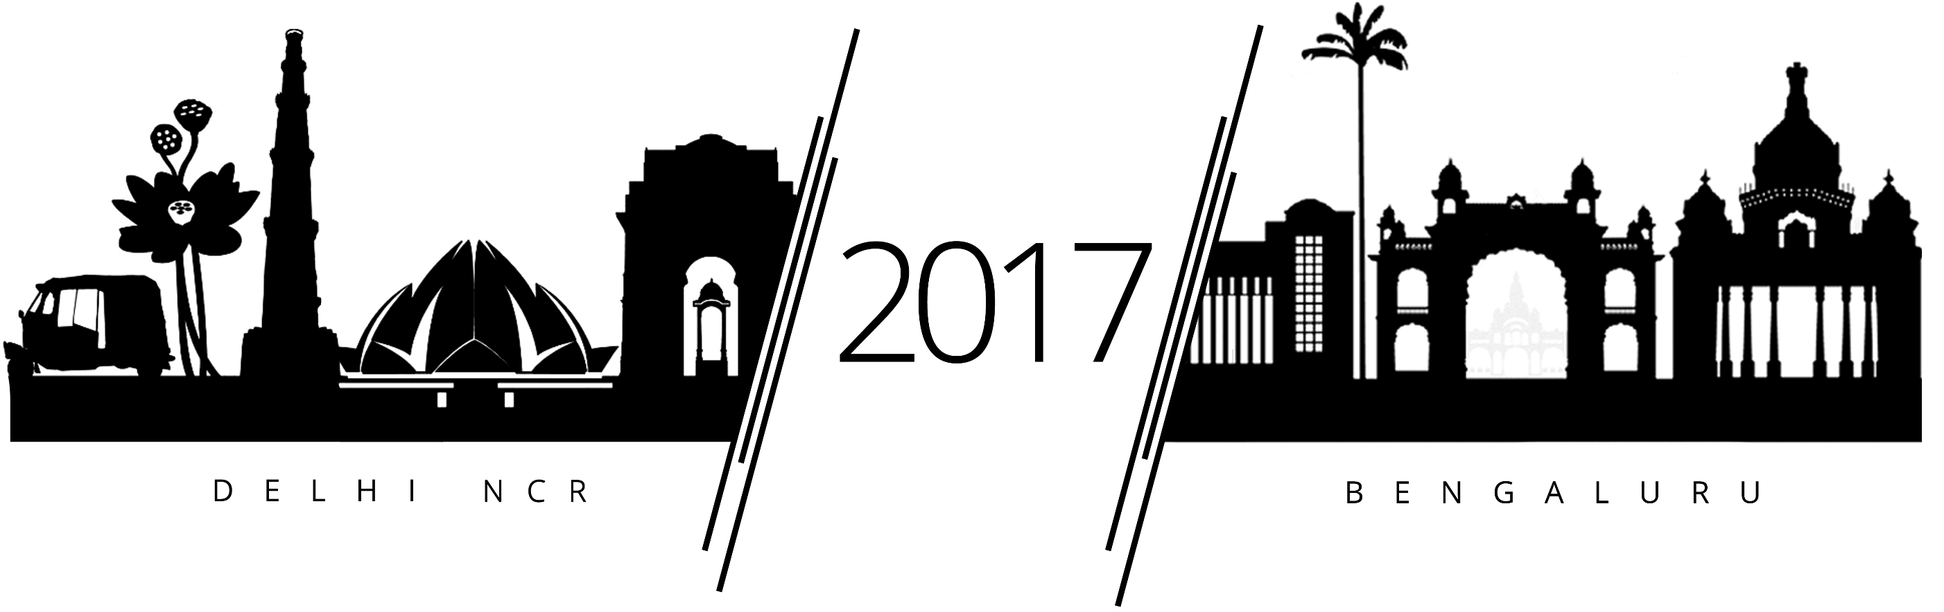
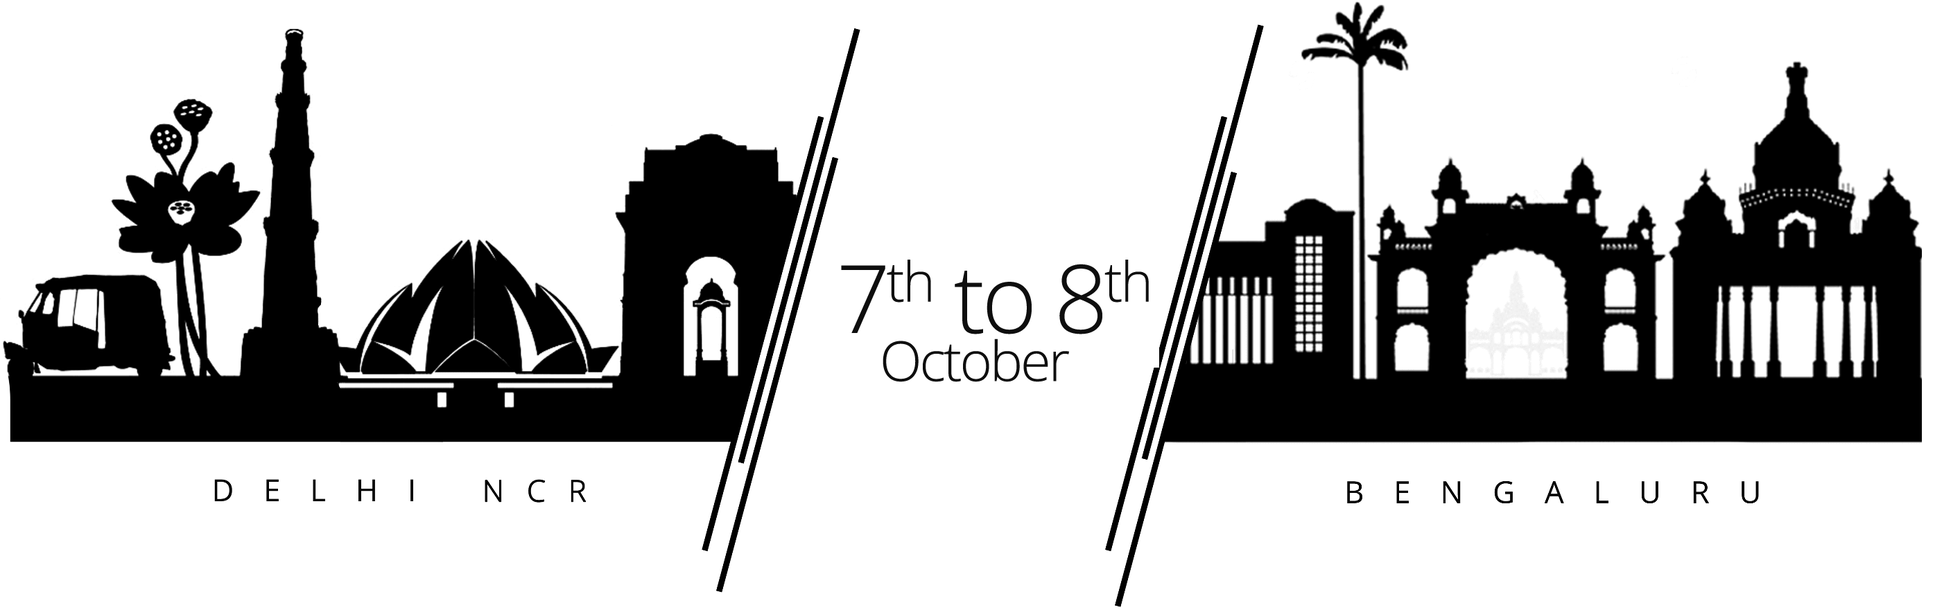
form attached

Changed region(s): [[0.4344, 0.3971, 0.5895, 0.6414]]

diff --git a/asset/css/custom.min.css b/asset/css/custom.min.css
@@ -1,1 +1,1 @@
-@import url(https://fonts.googleapis.com/css?family=Open+Sans:400,800);@import url();body{position:relative}.navbar>.container .navbar-brand,.navbar>.container-fluid .navbar-brand{margin-left:5%}.navbar-default{background:rgba(0,0,0,0)!important;opacity:1;border:none;color:#fff;height:auto}.navbar-default .navbar-nav>li>a{color:#fff;font-weight:500;text-transform:uppercase;font-size:11px;letter-spacing:1.5px}.navbar-default .navbar-nav>li>a:hover,.navbar-default .navbar-nav>li>a:focus{color:#e4e4e4}.navbar-default .navbar-nav>.active>a,.navbar-default .navbar-nav>.active>a:hover,.navbar-default .navbar-nav>.active>a:focus{color:#fff;background-color:transparent}.navbar-default .navbar-nav>.open>a,.navbar-default .navbar-nav>.open>a:hover,.navbar-default .navbar-nav>.open>a:focus{color:#fff;background-color:transparent}.navbar-default .navbar-toggle:hover,.navbar-default .navbar-toggle:focus{background-color:transparent}.navbar-default .navbar-link{color:#ddd}.navbar-default .navbar-link:hover{color:#fff}.navbar-brand{padding:0;margin-bottom:20px;margin-top:0}.navbar-brand img{padding:15px;width:191px}@media (max-width:767px){.navbar-default .navbar-nav .open .dropdown-menu>li>a{color:#ddd;margin-top:10px}.navbar-default .navbar-nav .open .dropdown-menu>li>a:hover,.navbar-default .navbar-nav .open .dropdown-menu>li>a:focus{color:#fff}.navbar-default .navbar-nav .open .dropdown-menu>.active>a,.navbar-default .navbar-nav .open .dropdown-menu>.active>a:hover,.navbar-default .navbar-nav .open .dropdown-menu>.active>a:focus{color:#fff;background-color:transparent}.navbar-brand{margin-bottom:10px;margin-top:0}.navbar button#registration-btn{margin:0 auto 15px auto!important;float:left!important}.navbar-header{background-color:#fff}#content-wrapper{max-width:90%!important;text-align:center}.landing-inside h1{font-size:3.5rem!important;padding-top:10rem!important}.cd-container{width:90%!important}.cd-timeline-content h2{font-size:1.4rem}.navbar img:nth-child(1){display:inline-block!important}.navbar-header img:nth-child(2){display:none}.affix .navbar-header img:nth-child(1){display:}.navbar-collapse{background-color:#fff}.navbar-default .navbar-nav>li>a{color:#142d4a}.navbar button#registration-btn{color:#fff;border:1px solid #2ed7f8!important;width:100%!important}.navbar-nav{width:100%!important;text-align:center;margin:0}}@media (min-width:767px){.navbar-nav>li>a{padding-top:7px;padding-bottom:0}}.navbar img:nth-child(1){display:none}.navbar-toggle{position:relative;float:right;padding:9px 10px;margin-top:21px;margin-right:31px;margin-bottom:21px;background-color:transparent;background-image:none;border:1px solid transparent;border-radius:4px}.affix{top:0;width:100%;-webkit-transition:all .5s ease-in-out;transition:all .5s ease-in-out;background-color:#fff!important;opacity:1;box-shadow:2px 0 10px rgba(0,0,0,.5)}.affix a{color:#142d4a!important;-webkit-transition:all .5s ease-in-out;transition:all .5s ease-in-out}.affix img{display:inline}.affix img:nth-child(2){display:none}.affix img:nth-child(1){display:inline-block}.affix #registration-btn{display:inline-block;color:#fff;border:1px solid rgb(46,215,248)!important}.navbar-brand img{display:none}.navbar button#registration-btn{margin:15px 5px auto;width:150px;float:right;padding:10px 0;outline:none;background-color:#2ed7f8;border:1px solid #fff;border-radius:30px;transition:all 0.3s}.navbar button#registration-btn{display:none}.affix #registration-btn{display:inline-block!important}.affix .navbar-nav{width:calc(100% - 360px);text-align:center}.navbar .affix button#registration-btn{margin:15px 5px auto;width:150px;float:right;padding:10px 0;outline:none;background-color:transparent;color:#501c4b;border:1px solid #501c4b;border-radius:6px;transition:all 0.3s}.navbar button#registration-btn:hover{border:1px solid #fff}#landing{top:0;height:84vh;background-image:url(../images/landing_background.jpg);background-position:top;background-size:cover;position:relative}#content-wrapper h1{text-align:center;padding-top:12rem;color:white;text-transform:uppercase;font-size:6rem}#content-wrapper{max-width:50%;margin-left:auto;margin-right:auto;text-align:center}.landing-inside p{text-align:center;color:white;text-shadow:3px 3px 7px #000}@media (min-width:768px){.navbar-nav>li{float:left;font-size:1.3rem;letter-spacing:.3px;padding:20px 0}}.navbar-nav{width:100%;text-align:center}.navbar-nav>li{float:none;display:inline-block}#about .col-sm-4 h3{font-size:24px;color:#57204a;text-transform:uppercase;letter-spacing:-2px;margin-bottom:20px;font-family:'Open Sans',sans-serif}li{font-family: 'Open Sans', sans-serif; font-size: 14px;line-height: 22px; text-align: justify; letter-spacing: .5px;}h3{font-size:23px;color:#142d4a;text-transform:uppercase;letter-spacing:6px;font-weight:100;text-align:center;margin-bottom:20px;font-family:'Open Sans',sans-serif}#about{padding:70px 10px;text-align:center}#about p{font-size:13px;letter-spacing:.5px;line-height:26px}#circle1{position:static;width:400px;margin-top:27px;margin-bottom:-126px;margin-left:auto;margin-right:114px;display:block}#img-para{margin-top:50px}#img-para img{width:400px;display:inline-block;vertical-align:top}#img-para p{width:calc(100% - 420px);display:inline-block}#tagline{text-align:center;background-image:url(../images/problem-bg.jpg);background-size:cover;background-attachment:fixed;background-position:center;padding:80px 0;text-shadow:2px 2px 3px #000}#tagline img{width:65%}p{font-size:14px;letter-spacing:.5px;line-height:26px;font-family:'Open Sans',sans-serif;font-weight:400}#rules{text-align:center;background-color:#efefef;padding:70px 0}#rules img{width:70%}#subscription{background-color:#1b1b1b;padding:25px 0;color:#191919;text-align:center;border-bottom:1px solid #353535}.contact_info{border-top:1px solid #353535;text-align:center;margin-bottom:15px}.contact_info .icon{width:90px;height:90px;border:2px solid #2ed7f8;color:white;font-size:2em;padding-top:20px;border-radius:50%;position:relative;vertical-align:center;text-align:center;margin:auto;margin-bottom:15px}.contact_info .info{color:#fff;text-transform:initial;letter-spacing:1px}#content-wrapper img:nth-child(1){width:400px;display:block;height:auto;position:static;top:auto;margin-left:auto;margin-right:auto;margin-bottom:50px;padding-top:23vh}#content-wrapper img:nth-child(2){width:80%;display:block;height:auto;position:static;top:auto;margin-left:auto;margin-right:auto}footer{background-color:#191919;min-height:350px;font-family:'Open Sans',sans-serif}.footer-col{margin-top:70px;margin-bottom:70px}.logofooter{margin-bottom:10px;font-size:25px;color:#fff;font-weight:700}.footer-col p{color:#bfbfbf;font-size:12px;font-family:'Open Sans',sans-serif;margin-bottom:15px;line-height:17px}.footer-col p i{width:20px;color:#999}.footer-ul{list-style-type:none;padding-left:0;margin-left:2px;text-align:left}.footer-ul li{line-height:29px;font-size:12px;text-align:left;padding:0 16px;display:inline-block;margin:3px 0;background-color:#4c4c4c;border-radius:20px;color:#000}.footer-ul li a{color:#fff}.footer-ul i{margin-right:10px}.copyright{min-height:40px;background-color:#353535}.copyright p{text-align:left;color:#FFF;padding:10px 0;margin-bottom:0;text-transform:uppercase;letter-spacing:2px;font-size:10px}.heading7{font-size:21px;font-weight:700;color:#d9d6d6;text-align:left;margin-bottom:22px}.post p{font-size:12px;color:#bfbfbf;line-height:20px}.post p span{display:block;color:#7b7b7b}.bottom_ul{list-style-type:none;float:right;margin-bottom:0}.bottom_ul li{float:left;line-height:40px}.bottom_ul li:after{content:"/";color:#FFF;margin-right:8px;margin-left:8px}.bottom_ul li a{color:#FFF;font-size:12px}.social-icon{width:30px;height:30px;font-size:15px;background-color:#007bb6;color:#fff;text-align:center;margin-right:10px;padding-top:7px;border-radius:50%}.footer-social{list-style:none;padding:0}.footer-social li{float:left}.linked-in{background-color:#007bb6}.facebook{background-color:#3b5998}.twitter{background-color:#1da1f2}.google{background-color:#f63e28}.rules-p{margin-bottom:30px}#rules-right{padding:0 20px;text-align:left}.logofooter img{max-width:380px}@media(max-width:769px){#img-para img{display:none}#img-para p{width:100%}#rules{text-align:center;padding:70px 0}#rules img{margin-bottom:20px}.footer-col{margin-top:20px;margin-bottom:10px}footer .container .row{padding:40px 0}.copyright p{text-align:center}#content-wrapper img{width:100%!important;display:block;height:auto;position:static;top:auto;margin-left:auto;margin-right:auto;margin-bottom:36px;padding-top:0}#tagline{padding:30px 0}#tagline img{width:100%}#time{padding:30px 0!important}}.no-js #loader{display:none}.js #loader{display:block;position:absolute;left:100px;top:0}.se-pre-con{position:fixed;left:0;top:0;width:100%;height:100%;z-index:9999;background:url(../images/143.gif) center no-repeat #fff}.cd-container{width:60%;max-width:1170px;margin:0 auto;color:#7f8c97}.cd-container::after{content:'';display:table;clear:both}.cd-header{height:100px;line-height:100px;text-align:center;background:#303e49;padding-top:20px}.cd-header h1{color:white;font-size:28px;text-align:center;font-size:1.75rem}@media only screen and (min-width:1170px){.cd-header{height:100px;text-align:center;line-height:100px}.cd-header h1{font-size:32px;text-align:center;font-size:1.75rem}}#cd-timeline{position:relative;padding:1.2em 0;margin-top:2em;margin-bottom:2em}#cd-timeline::before{content:'';position:absolute;top:0;left:18px;height:100%;width:4px;background:#d7e4ed}@media only screen and (min-width:1170px){#cd-timeline{margin-top:3em;margin-bottom:3em}#cd-timeline::before{left:50%;margin-left:-2px}}.cd-timeline-block{position:relative;margin:1.2em 0}.cd-timeline-block:after{content:"";display:table;clear:both}.cd-timeline-block:first-child{margin-top:0}.cd-timeline-block:last-child{margin-bottom:0}@media only screen and (min-width:1170px){.cd-timeline-block{margin:4em 0}.cd-timeline-block:first-child{margin-top:0}.cd-timeline-block:last-child{margin-bottom:0}}.cd-timeline-img{position:absolute;top:0;left:0;width:50px;height:50px;border-radius:50%;box-shadow:0 0 0 4px white,inset 0 2px 0 rgba(0,0,0,.08),0 3px 0 4px rgba(0,0,0,.05)}.cd-timeline-img img{display:block;width:30px;height:30px;position:relative;left:50%;top:50%;margin-left:-16px;margin-top:-16px}.cd-timeline-img.cd-picture{background:#75ce66}.cd-timeline-img.cd-movie{background:#c03b44}.cd-timeline-img.cd-location{background:#f0ca45}@media only screen and (min-width:1170px){.cd-timeline-img{width:60px;height:60px;left:50%;margin-left:-30px;-webkit-transform:translateZ(0);-webkit-backface-visibility:hidden}.cssanimations .cd-timeline-img.is-hidden{visibility:hidden}.cssanimations .cd-timeline-img.bounce-in{visibility:visible;-webkit-animation:cd-bounce-1 0.6s;-moz-animation:cd-bounce-1 0.6s;animation:cd-bounce-1 0.6s}}@-webkit-keyframes cd-bounce-1{0%{opacity:0;-webkit-transform:scale(.5)}60%{opacity:1;-webkit-transform:scale(1.2)}100%{-webkit-transform:scale(1)}}@-moz-keyframes cd-bounce-1{0%{opacity:0;-moz-transform:scale(.5)}60%{opacity:1;-moz-transform:scale(1.2)}100%{-moz-transform:scale(1)}}@keyframes cd-bounce-1{0%{opacity:0;-webkit-transform:scale(.5);-moz-transform:scale(.5);-ms-transform:scale(.5);-o-transform:scale(.5);transform:scale(.5)}60%{opacity:1;-webkit-transform:scale(1.2);-moz-transform:scale(1.2);-ms-transform:scale(1.2);-o-transform:scale(1.2);transform:scale(1.2)}100%{-webkit-transform:scale(1);-moz-transform:scale(1);-ms-transform:scale(1);-o-transform:scale(1);transform:scale(1)}}.cd-timeline-content{position:relative;margin-left:80px;background:white;border-radius:.25em;padding:1px .5em;box-shadow:0 3px 0 #d7e4ed}.cd-timeline-content:after{content:"";display:table;clear:both}.cd-timeline-content h2{color:#303e49}.cd-timeline-content p,.cd-timeline-content .cd-read-more,.cd-timeline-content .cd-date{font-size:22px;font-size:1.2rem;font-weight:800}.cd-timeline-content .cd-read-more,.cd-timeline-content .cd-date{display:inline-block}.cd-timeline-content p{margin:.5em 0;line-height:1.6}.cd-timeline-content .cd-read-more{float:right;padding:.8em 1em;background:#acb7c0;color:white;border-radius:.25em}.no-touch .cd-timeline-content .cd-read-more:hover{background-color:#bac4cb}.cd-timeline-content .cd-date{float:left;padding:.8em 0;opacity:.85}.cd-timeline-content::before{content:'';position:absolute;top:16px;right:100%;height:0;width:0;border:7px solid transparent;border-right:7px solid white}@media only screen and (min-width:768px){.cd-timeline-content h2{font-size:28px;font-size:1.75rem}.cd-timeline-content p{font-size:22px;font-size:1.4rem}.cd-timeline-content .cd-read-more,.cd-timeline-content .cd-date{font-size:22px;font-size:1.1rem}}@media only screen and (min-width:1170px){.cd-timeline-content{margin-left:0;padding:1.6em;width:45%}.cd-timeline-content::before{top:24px;left:100%;border-color:transparent;border-left-color:white}.cd-timeline-content .cd-read-more{float:left}.cd-timeline-content .cd-date{position:absolute;width:100%;left:122%;top:6px;font-size:22px;font-size:1.3rem}.cd-timeline-block:nth-child(even) .cd-timeline-content{float:right}.cd-timeline-block:nth-child(even) .cd-timeline-content::before{top:24px;left:auto;right:100%;border-color:transparent;border-right-color:white}.cd-timeline-block:nth-child(even) .cd-timeline-content .cd-read-more{float:right}.cd-timeline-block:nth-child(even) .cd-timeline-content .cd-date{left:auto;right:122%;text-align:right}.cssanimations .cd-timeline-content.is-hidden{visibility:hidden}.cssanimations .cd-timeline-content.bounce-in{visibility:visible;-webkit-animation:cd-bounce-2 0.6s;-moz-animation:cd-bounce-2 0.6s;animation:cd-bounce-2 0.6s}}@media only screen and (min-width:1170px){.cssanimations .cd-timeline-block:nth-child(even) .cd-timeline-content.bounce-in{-webkit-animation:cd-bounce-2-inverse 0.6s;-moz-animation:cd-bounce-2-inverse 0.6s;animation:cd-bounce-2-inverse 0.6s}}@-webkit-keyframes cd-bounce-2{0%{opacity:0;-webkit-transform:translateX(-100px)}60%{opacity:1;-webkit-transform:translateX(20px)}100%{-webkit-transform:translateX(0)}}@-moz-keyframes cd-bounce-2{0%{opacity:0;-moz-transform:translateX(-100px)}60%{opacity:1;-moz-transform:translateX(20px)}100%{-moz-transform:translateX(0)}}@keyframes cd-bounce-2{0%{opacity:0;-webkit-transform:translateX(-100px);-moz-transform:translateX(-100px);-ms-transform:translateX(-100px);-o-transform:translateX(-100px);transform:translateX(-100px)}60%{opacity:1;-webkit-transform:translateX(20px);-moz-transform:translateX(20px);-ms-transform:translateX(20px);-o-transform:translateX(20px);transform:translateX(20px)}100%{-webkit-transform:translateX(0);-moz-transform:translateX(0);-ms-transform:translateX(0);-o-transform:translateX(0);transform:translateX(0)}}@-webkit-keyframes cd-bounce-2-inverse{0%{opacity:0;-webkit-transform:translateX(100px)}60%{opacity:1;-webkit-transform:translateX(-20px)}100%{-webkit-transform:translateX(0)}}@-moz-keyframes cd-bounce-2-inverse{0%{opacity:0;-moz-transform:translateX(100px)}60%{opacity:1;-moz-transform:translateX(-20px)}100%{-moz-transform:translateX(0)}}@keyframes cd-bounce-2-inverse{0%{opacity:0;-webkit-transform:translateX(100px);-moz-transform:translateX(100px);-ms-transform:translateX(100px);-o-transform:translateX(100px);transform:translateX(100px)}60%{opacity:1;-webkit-transform:translateX(-20px);-moz-transform:translateX(-20px);-ms-transform:translateX(-20px);-o-transform:translateX(-20px);transform:translateX(-20px)}100%{-webkit-transform:translateX(0);-moz-transform:translateX(0);-ms-transform:translateX(0);-o-transform:translateX(0);transform:translateX(0)}}#schedule{background-color:#e9f0f5}.landing-inside button{background-color:#fff;color:#183554;border:1px solid rgba(87,32,74,0);font-weight:300;margin-top:20px;transition:0.2s all;width:150px;outline:0;font-size:14px;font-weight:400;border-radius:40px}.landing-inside button:hover,.landing-inside button:focus,.landing-inside button:active{background-color:#fff;color:#2ed7f8;outline:0}.modal-header{background-color:#2ed7f8;color:#fff;text-align:center;font-weight:100}.modal-title{font-weight:400;margin:0;line-height:1.42857143;text-transform:uppercase;letter-spacing:5px;font-size:12px}#modal-style h3{padding:10px 30px;font-size:16px;letter-spacing:.2px;font-weight:100;text-transform:initial}#modal-style p{padding:0 30px;font-size:12px;font-weight:400;text-transform:inherit}.modal-body button{padding:10px 30px;background-color:#fff;color:#191e27;letter-spacing:7px;border:1px solid #2ed7f8;text-transform:uppercase;outline:0;font-size:11px;border-radius:30px}#date-fort{width:60%;margin-top:20px;margin-bottom:30px}@media(max-width:1024px){#date-fort{width:80%}}@media(max-width:520px){#date-fort{width:100%}}.time{color:#000;border-radius:5px;padding:20px;margin:6px 5px}.hack-11 p{text-transform:uppercase;letter-spacing:3px;font-weight:lighter;font-size:30px;margin:0;display:inline-block}.t-bold{font-weight:300;font-size:12px;text-transform:uppercase;letter-spacing:1px;float:right;display:inline-block;vertical-align:-webkit-baseline-middle}.t-bold h4{font-weight:700;font-size:13px;letter-spacing:1px;padding:0;margin-left:10px!important;display:inline-block;margin:0;vertical-align:-webkit-baseline-middle}.head-line{width:40px;height:2px;background-color:#2ed7f8}.about-bold{font-weight:100;color:#fff;background-color:rgb(46,215,248);padding:2px 20px;border-radius:30px;margin:0 10px}#time{padding:70px 0}.hack-12{width:23.6%!important;display:inline-table;background-color:#efefef}.hack-11{width:60%;margin:6px auto;text-align:center;background-color:#2ed7f8;color:#fff;margin-top:50px}.prob{width:23.6%!important;display:inline-table;padding:30px 0}.prob img{width:35%}.prob p{padding:10px 0;text-transform:uppercase;padding-bottom:0;margin-bottom:0}.prob h5{color:#adadad;font-size:12px;line-height:14px;font-weight:400;border-top:2px solid #2ed7f8;letter-spacing:.3px;margin:auto 34px;padding-top:5px}@media(max-width:990px){.hack-12{width:23.2%!important}}@media(max-width:768px){#landing{height:110vh}#rules-right{padding:0;text-align:justify}.hack-11{width:100%!important}.hack-12{width:100%!important;margin:6px 0}.time{height:auto}.prob{width:48%!important;display:inline-table;padding:20px 0}}.hack-12 img{float:right;width:40px;display:inline-block}.hack-12 p{width:calc(100% - 42px);display:inline-block;line-height:18px}.hack-12 p span{display:block;font-size:10px;color:#828282;line-height:13px}.time-hack{padding:1px 10px;color:#424242;text-align:center;border-radius:20px;font-size:12px;margin-top:3px;border:1px solid #000;width:auto}#challenge{padding:70px 0;text-align:center}@media(max-width:305px){.prob{width:90%!important}}#filler{background-color:#404040}#filler img{width:40%;padding-bottom:50px}#pre-filler img{width:40%;margin-bottom:-1px}header{position:relative;height:180px;line-height:180px;padding:90px;text-align:center;background-color:rgb(46,215,248)}header h1{color:#fff;-webkit-font-smoothing:antialiased;-moz-osx-font-smoothing:grayscale;font-size:20px;font-size:2.25rem;font-weight:600}@media only screen and (min-width:1024px){header{height:240px;line-height:240px;padding:120px}header h1{font-size:36px;font-size:3.25rem}}.faqHeader{font-size:20px;margin:20px;margin-left:0}.panel-group p{font-size:14px;line-height:22px;text-align:justify}.panel-heading [data-toggle="collapse"]:after{font-family:Arial;content:">";float:right;color:#F58723;font-size:18px;line-height:22px;-webkit-transform:rotate(-90deg);-moz-transform:rotate(-90deg);-ms-transform:rotate(-90deg);-o-transform:rotate(-90deg);transform:rotate(-90deg)}.panel-heading [data-toggle="collapse"].collapsed:after{-webkit-transform:rotate(90deg);-moz-transform:rotate(90deg);-ms-transform:rotate(90deg);-o-transform:rotate(90deg);transform:rotate(90deg);color:#454444}
+@import url(https://fonts.googleapis.com/css?family=Open+Sans:400,800);@import url();body{position:relative}.navbar>.container .navbar-brand,.navbar>.container-fluid .navbar-brand{margin-left:5%}.navbar-default{background:rgba(0,0,0,0)!important;opacity:1;border:none;color:#fff;height:auto}.navbar-default .navbar-nav>li>a{color:#fff;font-weight:500;text-transform:uppercase;font-size:11px;letter-spacing:1.5px}.navbar-default .navbar-nav>li>a:hover,.navbar-default .navbar-nav>li>a:focus{color:#e4e4e4}.navbar-default .navbar-nav>.active>a,.navbar-default .navbar-nav>.active>a:hover,.navbar-default .navbar-nav>.active>a:focus{color:#fff;background-color:transparent}.navbar-default .navbar-nav>.open>a,.navbar-default .navbar-nav>.open>a:hover,.navbar-default .navbar-nav>.open>a:focus{color:#fff;background-color:transparent}.navbar-default .navbar-toggle:hover,.navbar-default .navbar-toggle:focus{background-color:transparent}.navbar-default .navbar-link{color:#ddd}.navbar-default .navbar-link:hover{color:#fff}.navbar-brand{padding:0;margin-bottom:20px;margin-top:0}.navbar-brand img{padding:15px;width:191px}@media (max-width:767px){.navbar-default .navbar-nav .open .dropdown-menu>li>a{color:#ddd;margin-top:10px}.navbar-default .navbar-nav .open .dropdown-menu>li>a:hover,.navbar-default .navbar-nav .open .dropdown-menu>li>a:focus{color:#fff}.navbar-default .navbar-nav .open .dropdown-menu>.active>a,.navbar-default .navbar-nav .open .dropdown-menu>.active>a:hover,.navbar-default .navbar-nav .open .dropdown-menu>.active>a:focus{color:#fff;background-color:transparent}.navbar-brand{margin-bottom:10px;margin-top:0}.navbar button#registration-btn{margin:0 auto 15px auto!important;float:left!important}.navbar-header{background-color:#fff}#content-wrapper{max-width:90%!important;text-align:center}.landing-inside h1{font-size:3.5rem!important;padding-top:10rem!important}.cd-container{width:90%!important}.cd-timeline-content h2{font-size:1.4rem}.navbar img:nth-child(1){display:inline-block!important}.navbar-header img:nth-child(2){display:none}.affix .navbar-header img:nth-child(1){display:}.navbar-collapse{background-color:#fff}.navbar-default .navbar-nav>li>a{color:#142d4a}.navbar button#registration-btn{color:#fff;border:1px solid #2ed7f8!important;width:100%!important}.navbar-nav{width:100%!important;text-align:center;margin:0}}@media (min-width:767px){.navbar-nav>li>a{padding-top:7px;padding-bottom:0}}.navbar img:nth-child(1){display:none}.navbar-toggle{position:relative;float:right;padding:9px 10px;margin-top:21px;margin-right:31px;margin-bottom:21px;background-color:transparent;background-image:none;border:1px solid transparent;border-radius:4px}.affix{top:0;width:100%;-webkit-transition:all .5s ease-in-out;transition:all .5s ease-in-out;background-color:#fff!important;opacity:1;box-shadow:2px 0 10px rgba(0,0,0,.5)}.affix a{color:#142d4a!important;-webkit-transition:all .5s ease-in-out;transition:all .5s ease-in-out}.affix img{display:inline}.affix img:nth-child(2){display:none}.affix img:nth-child(1){display:inline-block}.affix #registration-btn{display:inline-block;color:#fff;border:1px solid rgb(46,215,248)!important}.navbar-brand img{display:none}.navbar button#registration-btn{margin:15px 5px auto;width:150px;float:right;padding:10px 0;outline:none;background-color:#2ed7f8;border:1px solid #fff;border-radius:30px;transition:all 0.3s}.navbar button#registration-btn{display:none}.affix #registration-btn{display:inline-block!important}.affix .navbar-nav{width:calc(100% - 360px);text-align:center}.navbar .affix button#registration-btn{margin:15px 5px auto;width:150px;float:right;padding:10px 0;outline:none;background-color:transparent;color:#501c4b;border:1px solid #501c4b;border-radius:6px;transition:all 0.3s}.navbar button#registration-btn:hover{border:1px solid #fff}#landing{top:0;height:84vh;background-image:url(../images/landing_background.jpg);background-position:top;background-size:cover;position:relative}#content-wrapper h1{text-align:center;padding-top:12rem;color:white;text-transform:uppercase;font-size:6rem}#content-wrapper{max-width:50%;margin-left:auto;margin-right:auto;text-align:center}.landing-inside p{text-align:center;color:white;text-shadow:3px 3px 7px #000}@media (min-width:768px){.navbar-nav>li{float:left;font-size:1.3rem;letter-spacing:.3px;padding:20px 0}}.navbar-nav{width:100%;text-align:center}.navbar-nav>li{float:none;display:inline-block}#about .col-sm-4 h3{font-size:24px;color:#57204a;text-transform:uppercase;letter-spacing:-2px;margin-bottom:20px;font-family:'Open Sans',sans-serif}li{font-family: 'Open Sans', sans-serif; font-size: 14px;line-height: 22px; text-align: justify; letter-spacing: .5px;}h3{font-size:23px;color:#142d4a;text-transform:uppercase;letter-spacing:6px;font-weight:100;text-align:center;margin-bottom:20px;font-family:'Open Sans',sans-serif}#about{padding:70px 10px;text-align:center}#about p{font-size:13px;letter-spacing:.5px;line-height:26px}#circle1{position:static;width:400px;margin-top:27px;margin-bottom:-126px;margin-left:auto;margin-right:114px;display:block}#img-para{margin-top:50px}#img-para img{width:400px;display:inline-block;vertical-align:top}#img-para p{width:calc(100% - 420px);display:inline-block}#tagline{text-align:center;background-image:url(../images/problem-bg.jpg);background-size:cover;background-attachment:fixed;background-position:center;padding:80px 0;text-shadow:2px 2px 3px #000}#tagline img{width:65%}p{font-size:14px;letter-spacing:.5px;line-height:26px;font-family:'Open Sans',sans-serif;font-weight:400}#rules{text-align:center;background-color:#efefef;padding:70px 0}#rules img{width:70%}#subscription{background-color:#1b1b1b;padding:25px 0;color:#191919;text-align:center;border-bottom:1px solid #353535}.contact_info{border-top:1px solid #353535;text-align:center;margin-bottom:15px}.contact_info .icon{width:90px;height:90px;border:2px solid #2ed7f8;color:white;font-size:2em;padding-top:20px;border-radius:50%;position:relative;vertical-align:center;text-align:center;margin:auto;margin-bottom:15px}.contact_info .info{color:#fff;text-transform:initial;letter-spacing:1px}#content-wrapper img:nth-child(1){width:400px;display:block;height:auto;position:static;top:auto;margin-left:auto;margin-right:auto;margin-bottom: 25px;padding-top:23vh;}#content-wrapper img:nth-child(2){width:80%;display:block;height:auto;position:static;top:auto;margin-left:auto;margin-right:auto}footer{background-color:#191919;min-height:350px;font-family:'Open Sans',sans-serif}.footer-col{margin-top:70px;margin-bottom:70px}.logofooter{margin-bottom:10px;font-size:25px;color:#fff;font-weight:700}.footer-col p{color:#bfbfbf;font-size:12px;font-family:'Open Sans',sans-serif;margin-bottom:15px;line-height:17px}.footer-col p i{width:20px;color:#999}.footer-ul{list-style-type:none;padding-left:0;margin-left:2px;text-align:left}.footer-ul li{line-height:29px;font-size:12px;text-align:left;padding:0 16px;display:inline-block;margin:3px 0;background-color:#4c4c4c;border-radius:20px;color:#000}.footer-ul li a{color:#fff}.footer-ul i{margin-right:10px}.copyright{min-height:40px;background-color:#353535}.copyright p{text-align:left;color:#FFF;padding:10px 0;margin-bottom:0;text-transform:uppercase;letter-spacing:2px;font-size:10px}.heading7{font-size:21px;font-weight:700;color:#d9d6d6;text-align:left;margin-bottom:22px}.post p{font-size:12px;color:#bfbfbf;line-height:20px}.post p span{display:block;color:#7b7b7b}.bottom_ul{list-style-type:none;float:right;margin-bottom:0}.bottom_ul li{float:left;line-height:40px}.bottom_ul li:after{content:"/";color:#FFF;margin-right:8px;margin-left:8px}.bottom_ul li a{color:#FFF;font-size:12px}.social-icon{width:30px;height:30px;font-size:15px;background-color:#007bb6;color:#fff;text-align:center;margin-right:10px;padding-top:7px;border-radius:50%}.footer-social{list-style:none;padding:0}.footer-social li{float:left}.linked-in{background-color:#007bb6}.facebook{background-color:#3b5998}.twitter{background-color:#1da1f2}.google{background-color:#f63e28}.rules-p{margin-bottom:30px}#rules-right{padding:0 20px;text-align:left}.logofooter img{max-width:380px}@media(max-width:769px){#img-para img{display:none}#img-para p{width:100%}#rules{text-align:center;padding:70px 0}#rules img{margin-bottom:20px}.footer-col{margin-top:20px;margin-bottom:10px}footer .container .row{padding:40px 0}.copyright p{text-align:center}#content-wrapper img{width:100%!important;display:block;height:auto;position:static;top:auto;margin-left:auto;margin-right:auto;margin-bottom:36px;padding-top:0}#tagline{padding:30px 0}#tagline img{width:100%}#time{padding:30px 0!important}}.no-js #loader{display:none}.js #loader{display:block;position:absolute;left:100px;top:0}.se-pre-con{position:fixed;left:0;top:0;width:100%;height:100%;z-index:9999;background:url(../images/143.gif) center no-repeat #fff}.cd-container{width:60%;max-width:1170px;margin:0 auto;color:#7f8c97}.cd-container::after{content:'';display:table;clear:both}.cd-header{height:100px;line-height:100px;text-align:center;background:#303e49;padding-top:20px}.cd-header h1{color:white;font-size:28px;text-align:center;font-size:1.75rem}@media only screen and (min-width:1170px){.cd-header{height:100px;text-align:center;line-height:100px}.cd-header h1{font-size:32px;text-align:center;font-size:1.75rem}}#cd-timeline{position:relative;padding:1.2em 0;margin-top:2em;margin-bottom:2em}#cd-timeline::before{content:'';position:absolute;top:0;left:18px;height:100%;width:4px;background:#d7e4ed}@media only screen and (min-width:1170px){#cd-timeline{margin-top:3em;margin-bottom:3em}#cd-timeline::before{left:50%;margin-left:-2px}}.cd-timeline-block{position:relative;margin:1.2em 0}.cd-timeline-block:after{content:"";display:table;clear:both}.cd-timeline-block:first-child{margin-top:0}.cd-timeline-block:last-child{margin-bottom:0}@media only screen and (min-width:1170px){.cd-timeline-block{margin:4em 0}.cd-timeline-block:first-child{margin-top:0}.cd-timeline-block:last-child{margin-bottom:0}}.cd-timeline-img{position:absolute;top:0;left:0;width:50px;height:50px;border-radius:50%;box-shadow:0 0 0 4px white,inset 0 2px 0 rgba(0,0,0,.08),0 3px 0 4px rgba(0,0,0,.05)}.cd-timeline-img img{display:block;width:30px;height:30px;position:relative;left:50%;top:50%;margin-left:-16px;margin-top:-16px}.cd-timeline-img.cd-picture{background:#75ce66}.cd-timeline-img.cd-movie{background:#c03b44}.cd-timeline-img.cd-location{background:#f0ca45}@media only screen and (min-width:1170px){.cd-timeline-img{width:60px;height:60px;left:50%;margin-left:-30px;-webkit-transform:translateZ(0);-webkit-backface-visibility:hidden}.cssanimations .cd-timeline-img.is-hidden{visibility:hidden}.cssanimations .cd-timeline-img.bounce-in{visibility:visible;-webkit-animation:cd-bounce-1 0.6s;-moz-animation:cd-bounce-1 0.6s;animation:cd-bounce-1 0.6s}}@-webkit-keyframes cd-bounce-1{0%{opacity:0;-webkit-transform:scale(.5)}60%{opacity:1;-webkit-transform:scale(1.2)}100%{-webkit-transform:scale(1)}}@-moz-keyframes cd-bounce-1{0%{opacity:0;-moz-transform:scale(.5)}60%{opacity:1;-moz-transform:scale(1.2)}100%{-moz-transform:scale(1)}}@keyframes cd-bounce-1{0%{opacity:0;-webkit-transform:scale(.5);-moz-transform:scale(.5);-ms-transform:scale(.5);-o-transform:scale(.5);transform:scale(.5)}60%{opacity:1;-webkit-transform:scale(1.2);-moz-transform:scale(1.2);-ms-transform:scale(1.2);-o-transform:scale(1.2);transform:scale(1.2)}100%{-webkit-transform:scale(1);-moz-transform:scale(1);-ms-transform:scale(1);-o-transform:scale(1);transform:scale(1)}}.cd-timeline-content{position:relative;margin-left:80px;background:white;border-radius:.25em;padding:1px .5em;box-shadow:0 3px 0 #d7e4ed}.cd-timeline-content:after{content:"";display:table;clear:both}.cd-timeline-content h2{color:#303e49}.cd-timeline-content p,.cd-timeline-content .cd-read-more,.cd-timeline-content .cd-date{font-size:22px;font-size:1.2rem;font-weight:800}.cd-timeline-content .cd-read-more,.cd-timeline-content .cd-date{display:inline-block}.cd-timeline-content p{margin:.5em 0;line-height:1.6}.cd-timeline-content .cd-read-more{float:right;padding:.8em 1em;background:#acb7c0;color:white;border-radius:.25em}.no-touch .cd-timeline-content .cd-read-more:hover{background-color:#bac4cb}.cd-timeline-content .cd-date{float:left;padding:.8em 0;opacity:.85}.cd-timeline-content::before{content:'';position:absolute;top:16px;right:100%;height:0;width:0;border:7px solid transparent;border-right:7px solid white}@media only screen and (min-width:768px){.cd-timeline-content h2{font-size:28px;font-size:1.75rem}.cd-timeline-content p{font-size:22px;font-size:1.4rem}.cd-timeline-content .cd-read-more,.cd-timeline-content .cd-date{font-size:22px;font-size:1.1rem}}@media only screen and (min-width:1170px){.cd-timeline-content{margin-left:0;padding:1.6em;width:45%}.cd-timeline-content::before{top:24px;left:100%;border-color:transparent;border-left-color:white}.cd-timeline-content .cd-read-more{float:left}.cd-timeline-content .cd-date{position:absolute;width:100%;left:122%;top:6px;font-size:22px;font-size:1.3rem}.cd-timeline-block:nth-child(even) .cd-timeline-content{float:right}.cd-timeline-block:nth-child(even) .cd-timeline-content::before{top:24px;left:auto;right:100%;border-color:transparent;border-right-color:white}.cd-timeline-block:nth-child(even) .cd-timeline-content .cd-read-more{float:right}.cd-timeline-block:nth-child(even) .cd-timeline-content .cd-date{left:auto;right:122%;text-align:right}.cssanimations .cd-timeline-content.is-hidden{visibility:hidden}.cssanimations .cd-timeline-content.bounce-in{visibility:visible;-webkit-animation:cd-bounce-2 0.6s;-moz-animation:cd-bounce-2 0.6s;animation:cd-bounce-2 0.6s}}@media only screen and (min-width:1170px){.cssanimations .cd-timeline-block:nth-child(even) .cd-timeline-content.bounce-in{-webkit-animation:cd-bounce-2-inverse 0.6s;-moz-animation:cd-bounce-2-inverse 0.6s;animation:cd-bounce-2-inverse 0.6s}}@-webkit-keyframes cd-bounce-2{0%{opacity:0;-webkit-transform:translateX(-100px)}60%{opacity:1;-webkit-transform:translateX(20px)}100%{-webkit-transform:translateX(0)}}@-moz-keyframes cd-bounce-2{0%{opacity:0;-moz-transform:translateX(-100px)}60%{opacity:1;-moz-transform:translateX(20px)}100%{-moz-transform:translateX(0)}}@keyframes cd-bounce-2{0%{opacity:0;-webkit-transform:translateX(-100px);-moz-transform:translateX(-100px);-ms-transform:translateX(-100px);-o-transform:translateX(-100px);transform:translateX(-100px)}60%{opacity:1;-webkit-transform:translateX(20px);-moz-transform:translateX(20px);-ms-transform:translateX(20px);-o-transform:translateX(20px);transform:translateX(20px)}100%{-webkit-transform:translateX(0);-moz-transform:translateX(0);-ms-transform:translateX(0);-o-transform:translateX(0);transform:translateX(0)}}@-webkit-keyframes cd-bounce-2-inverse{0%{opacity:0;-webkit-transform:translateX(100px)}60%{opacity:1;-webkit-transform:translateX(-20px)}100%{-webkit-transform:translateX(0)}}@-moz-keyframes cd-bounce-2-inverse{0%{opacity:0;-moz-transform:translateX(100px)}60%{opacity:1;-moz-transform:translateX(-20px)}100%{-moz-transform:translateX(0)}}@keyframes cd-bounce-2-inverse{0%{opacity:0;-webkit-transform:translateX(100px);-moz-transform:translateX(100px);-ms-transform:translateX(100px);-o-transform:translateX(100px);transform:translateX(100px)}60%{opacity:1;-webkit-transform:translateX(-20px);-moz-transform:translateX(-20px);-ms-transform:translateX(-20px);-o-transform:translateX(-20px);transform:translateX(-20px)}100%{-webkit-transform:translateX(0);-moz-transform:translateX(0);-ms-transform:translateX(0);-o-transform:translateX(0);transform:translateX(0)}}#schedule{background-color:#e9f0f5}.landing-inside button{background-color:#fff;color:#183554;border:1px solid rgba(87,32,74,0);font-weight:300;margin-top:20px;transition:0.2s all;width:150px;outline:0;font-size:14px;font-weight:400;border-radius:40px}.landing-inside button:hover,.landing-inside button:focus,.landing-inside button:active{background-color:#fff;color:#2ed7f8;outline:0}.modal-header{background-color:#2ed7f8;color:#fff;text-align:center;font-weight:100}.modal-title{font-weight:400;margin:0;line-height:1.42857143;text-transform:uppercase;letter-spacing:5px;font-size:12px}#modal-style h3{padding:10px 30px;font-size:16px;letter-spacing:.2px;font-weight:100;text-transform:initial}#modal-style p{padding:0 30px;font-size:12px;font-weight:400;text-transform:inherit}.modal-body button{padding:10px 30px;background-color:#fff;color:#191e27;letter-spacing:7px;border:1px solid #2ed7f8;text-transform:uppercase;outline:0;font-size:11px;border-radius:30px}#date-fort{width:60%;margin-top:20px;margin-bottom:30px}@media(max-width:1024px){#date-fort{width:80%}}@media(max-width:520px){#date-fort{width:100%}}.time{color:#000;border-radius:5px;padding:20px;margin:6px 5px}.hack-11 p{text-transform:uppercase;letter-spacing:3px;font-weight:lighter;font-size:30px;margin:0;display:inline-block}.t-bold{font-weight:300;font-size:12px;text-transform:uppercase;letter-spacing:1px;float:right;display:inline-block;vertical-align:-webkit-baseline-middle}.t-bold h4{font-weight:700;font-size:13px;letter-spacing:1px;padding:0;margin-left:10px!important;display:inline-block;margin:0;vertical-align:-webkit-baseline-middle}.head-line{width:40px;height:2px;background-color:#2ed7f8}.about-bold{font-weight:100;color:#fff;background-color:rgb(46,215,248);padding:2px 20px;border-radius:30px;margin:0 10px}#time{padding:70px 0}.hack-12{width:23.6%!important;display:inline-table;background-color:#efefef}.hack-11{width:60%;margin:6px auto;text-align:center;background-color:#2ed7f8;color:#fff;margin-top:50px}.prob{width:23.6%!important;display:inline-table;padding:30px 0}.prob img{width:35%}.prob p{padding:10px 0;text-transform:uppercase;padding-bottom:0;margin-bottom:0}.prob h5{color:#adadad;font-size:12px;line-height:14px;font-weight:400;border-top:2px solid #2ed7f8;letter-spacing:.3px;margin:auto 34px;padding-top:5px}@media(max-width:990px){.hack-12{width:23.2%!important}}@media(max-width:768px){#landing{height:110vh}#rules-right{padding:0;text-align:justify}.hack-11{width:100%!important}.hack-12{width:100%!important;margin:6px 0}.time{height:auto}.prob{width:48%!important;display:inline-table;padding:20px 0}}.hack-12 img{float:right;width:40px;display:inline-block}.hack-12 p{width:calc(100% - 42px);display:inline-block;line-height:18px}.hack-12 p span{display:block;font-size:10px;color:#828282;line-height:13px}.time-hack{padding:1px 10px;color:#424242;text-align:center;border-radius:20px;font-size:12px;margin-top:3px;border:1px solid #000;width:auto}#challenge{padding:70px 0;text-align:center}@media(max-width:305px){.prob{width:90%!important}}#filler{background-color:#404040}#filler img{width:40%;padding-bottom:50px}#pre-filler img{width:40%;margin-bottom:-1px}header{position:relative;height:180px;line-height:180px;padding:90px;text-align:center;background-color:rgb(46,215,248)}header h1{color:#fff;-webkit-font-smoothing:antialiased;-moz-osx-font-smoothing:grayscale;font-size:20px;font-size:2.25rem;font-weight:600}@media only screen and (min-width:1024px){header{height:240px;line-height:240px;padding:120px}header h1{font-size:36px;font-size:3.25rem}}.faqHeader{font-size:20px;margin:20px;margin-left:0}.panel-group p{font-size:14px;line-height:22px;text-align:justify}.panel-heading [data-toggle="collapse"]:after{font-family:Arial;content:">";float:right;color:#F58723;font-size:18px;line-height:22px;-webkit-transform:rotate(-90deg);-moz-transform:rotate(-90deg);-ms-transform:rotate(-90deg);-o-transform:rotate(-90deg);transform:rotate(-90deg)}.panel-heading [data-toggle="collapse"].collapsed:after{-webkit-transform:rotate(90deg);-moz-transform:rotate(90deg);-ms-transform:rotate(90deg);-o-transform:rotate(90deg);transform:rotate(90deg);color:#454444}.modal-body{height:80vh;}@media(min-width:768px;){modla-body{height:98vh;}}

diff --git a/index.html b/index.html
@@ -44,7 +44,8 @@
                     <li><a href="#rules">Rules</a></li> 
                     <li><a href="#contact">Contact</a></li>
                 </ul>
-                <button id="registration-btn" data-toggle="modal" data-target="#register">Register</button>
+                <a href="https://smartcityincubateind.typeform.com/to/pFErVH" data-mode="popup" target="_blank"><button id="registration-btn" >Register</button></a>
+
             </div>
         </div>
     </nav>
@@ -57,7 +58,7 @@
             <div id="content-wrapper">
                 <img src="asset/images/vh_logo.png">
                 <img src="asset/images/largest.png">
-                <button type="button" class="btn  btn-lg" data-toggle="modal" data-target="#register"><b>7th - 8th October</b></button>
+                <a href="https://smartcityincubateind.typeform.com/to/pFErVH" data-mode="popup" target="_blank"><button type="button" class="btn  btn-lg">Register</button></a>
             </div>
              
         </div>
@@ -70,7 +71,7 @@
         <hr class="head-line">
         <p>
             The<span class="about-bold">Vistara Hackathon</span>in partnership with<span class="about-bold">IncubateIND</span>, brings India's Largest Aviation <span style="font-weight:300;">Hackathon</span> and takes you on a new voyage of the hack with talented teams of developers, designers, and data scientists that blend <span style="font-weight:300;">innovation</span> with creativity and construct solutions out of it, making your experience peerless
-            and one of a kind. Team up with us on this unique and exciting journey on the same day, at the same time in two cities <span class="about-bold">(Delhi and Bengaluru)</span> on <span class="about-bold">October 7<sup>th</sup> - 8<sup>th</sup></span>.
+            and one of a kind. Team up with us on this unique and exciting journey on the same day, at the same time in two cities <span class="about-bold">(Delhi and Bengaluru)</span> on <span class="about-bold">October 7<sup>th</sup> to 8<sup>th</sup></span>.
         </p>
         <img id="date-fort" src="asset/images/date_creative.png">
     </div>
@@ -419,7 +420,7 @@
             <h4 class="modal-title">Registration</h4>
         </div>
         <div class="modal-body" id="modal-style">
-            <p style="text-align:center;">Registration will be open soon.</p>
+            <p style="text-align:center;">Registration will open onwards 24th August.</p>
             <button type="button" class="btn btn-default center-block" data-dismiss="modal">Close</button>
         </div>
         </div>
@@ -430,6 +431,7 @@
     <script src="https://ajax.googleapis.com/ajax/libs/jquery/3.2.1/jquery.min.js"></script>
     <script src="https://maxcdn.bootstrapcdn.com/bootstrap/3.3.7/js/bootstrap.min.js"></script>
     <script src="http://ajax.googleapis.com/ajax/libs/jquery/1.5.2/jquery.min.js"></script>
+    <script> (function() { var qs,js,q,s,d=document, gi=d.getElementById, ce=d.createElement, gt=d.getElementsByTagName, id="typef_orm_share", b="https://embed.typeform.com/"; if(!gi.call(d,id)){ js=ce.call(d,"script"); js.id=id; js.src=b+"embed.js"; q=gt.call(d,"script")[0]; q.parentNode.insertBefore(js,q) } })() </script>
 
     <!-- Custom.min.js -->
     <script>
